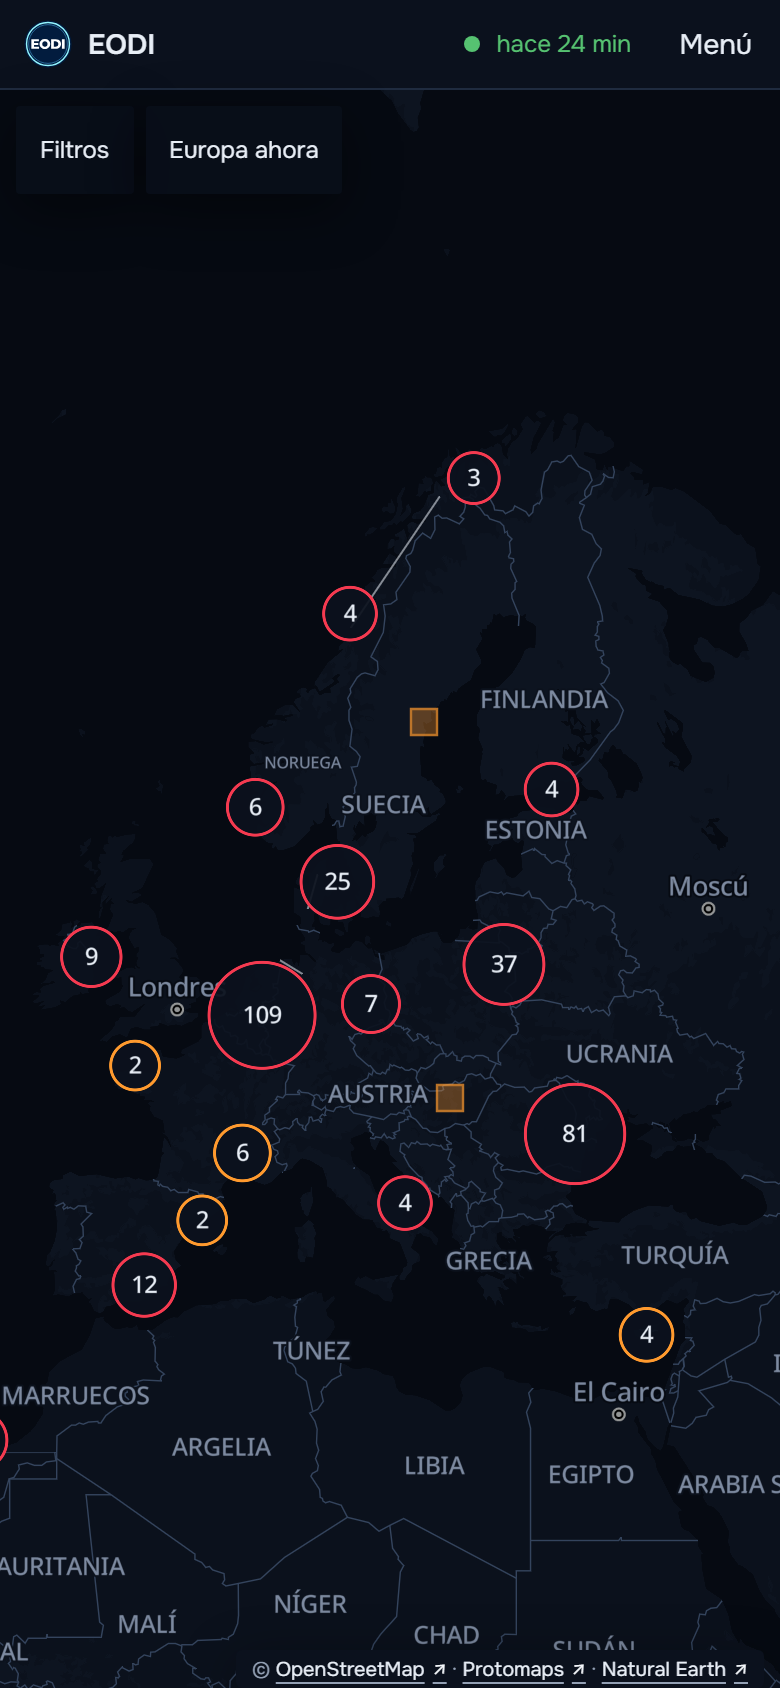
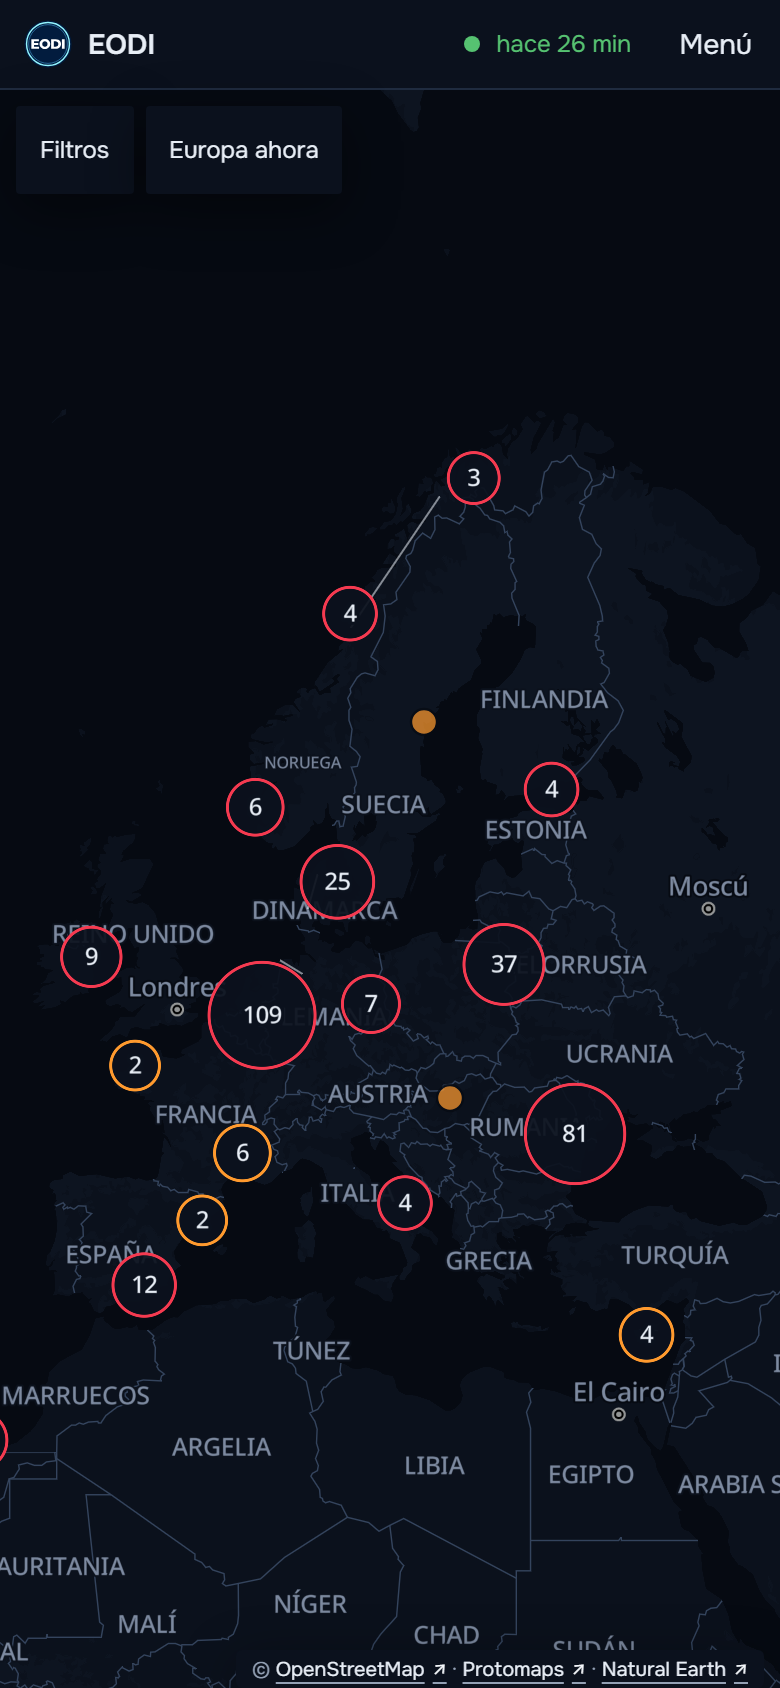
Capturas con los incidentes como círculo (#79)
Capturas de producción de la entrada y de «Europa ahora» abierto, en escritorio y 390×844,
con los incidentes como círculo; informe al día.

diff --git a/docs/informe_europa_directo.md b/docs/informe_europa_directo.md
@@ -302,6 +302,19 @@ y la ficha más antigua (`EODI-2024-00001`, también con `?ultimos=24h`) abren l
 historial de estados (EODI-2026-00015, EODI-2026-00074 y EODI-2026-00283), la leyenda, y que
 laten 4 o 5 novedades con una visita anterior y ninguna en la primera visita.
 
+## 7 quater. Todos los incidentes como círculo
+
+Desde el PR #78 el marcador de un incidente suelto solo indica su estado: círculo naranja relleno
+(notificado), círculo rojo relleno (confirmado), círculo gris de borde discontinuo (desmentido) y
+la bandera roja (atribuido). El tipo se lee como texto en la ficha, la lista y los filtros, y la
+leyenda tiene cuatro entradas. «Europa ahora» lleva todas sus cifras en una columna fija; la del
+GPS es el número de zonas con interferencia alta del día («384 zonas con interferencia GPS hoy»
+el 2 de octubre de 2026), el mismo que da la leyenda de la capa. Paneles, hojas y desplegables
+son opacos. Los avisos en directo tienen su propia etiqueta con el código OACI, por encima del
+punto del aeropuerto, y el número de los grupos va por encima de todo. Comprobado en producción
+con `web/data/comprobar-circulos.mjs` (escritorio y 390×844): 49 comprobaciones bien y 0 mal;
+capturas `europa-*-entrada.png` y `europa-*-ahora.png`.
+
 ## 8. Servidor y vigilancia
 
 - Unidad `eodi-directo.service`, siempre en marcha (`Restart=always`), con su propio cerrojo,
